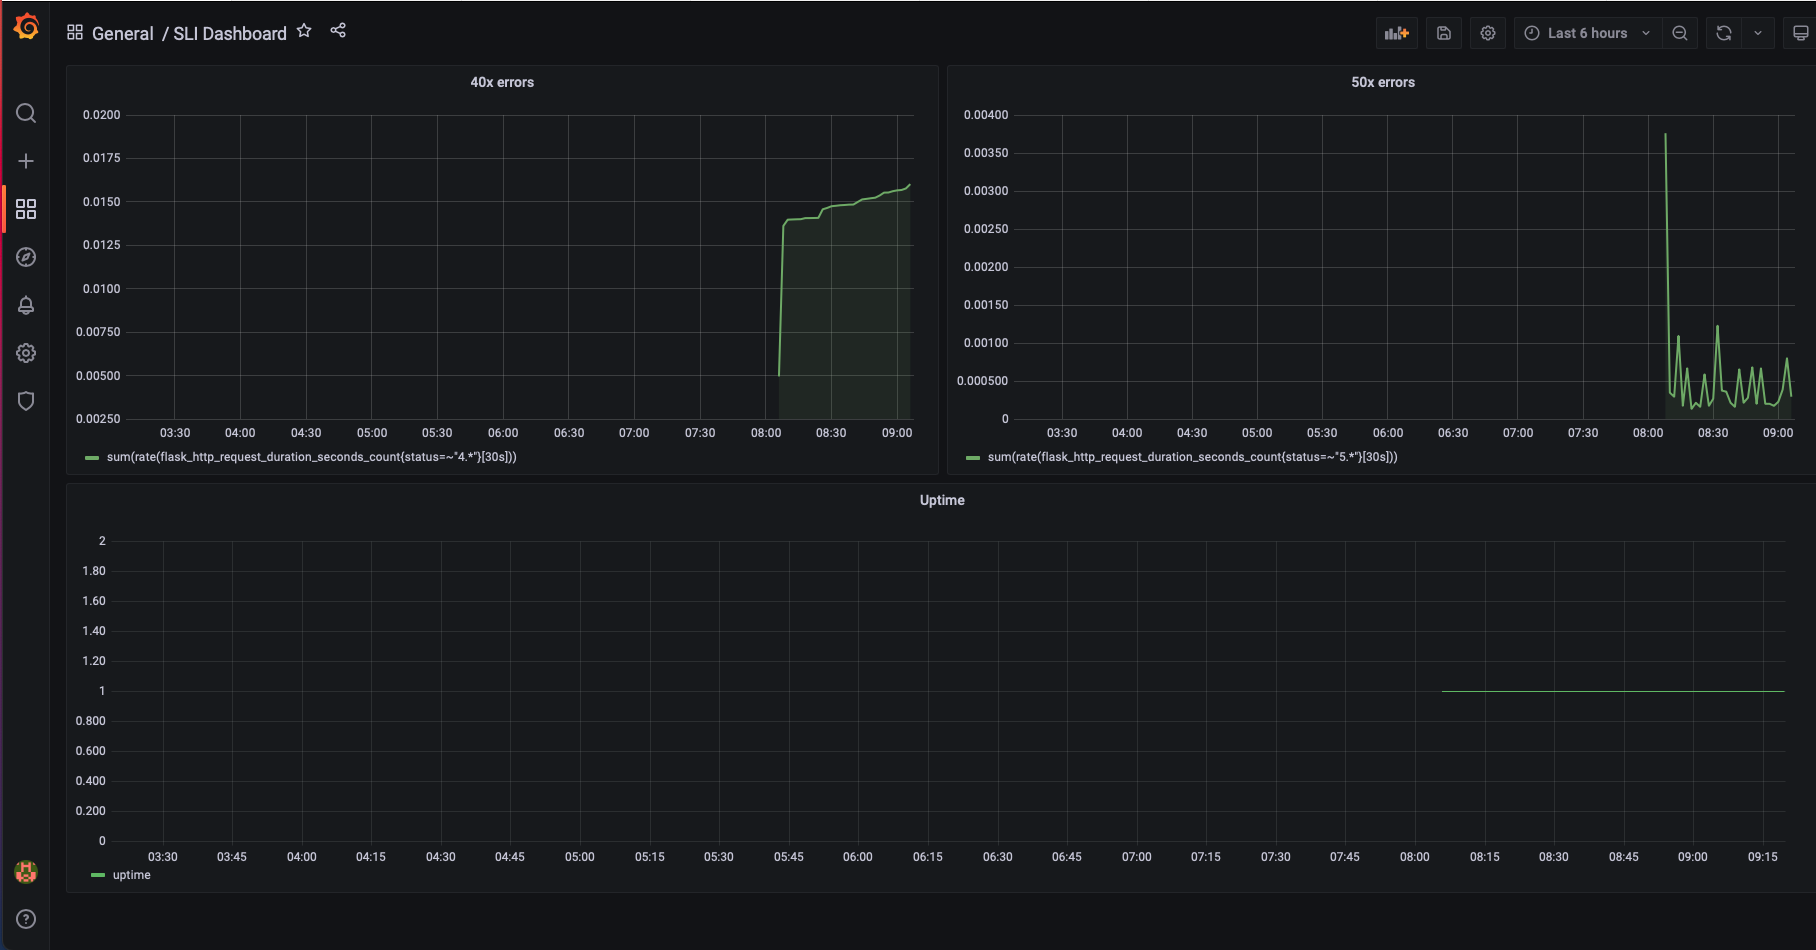
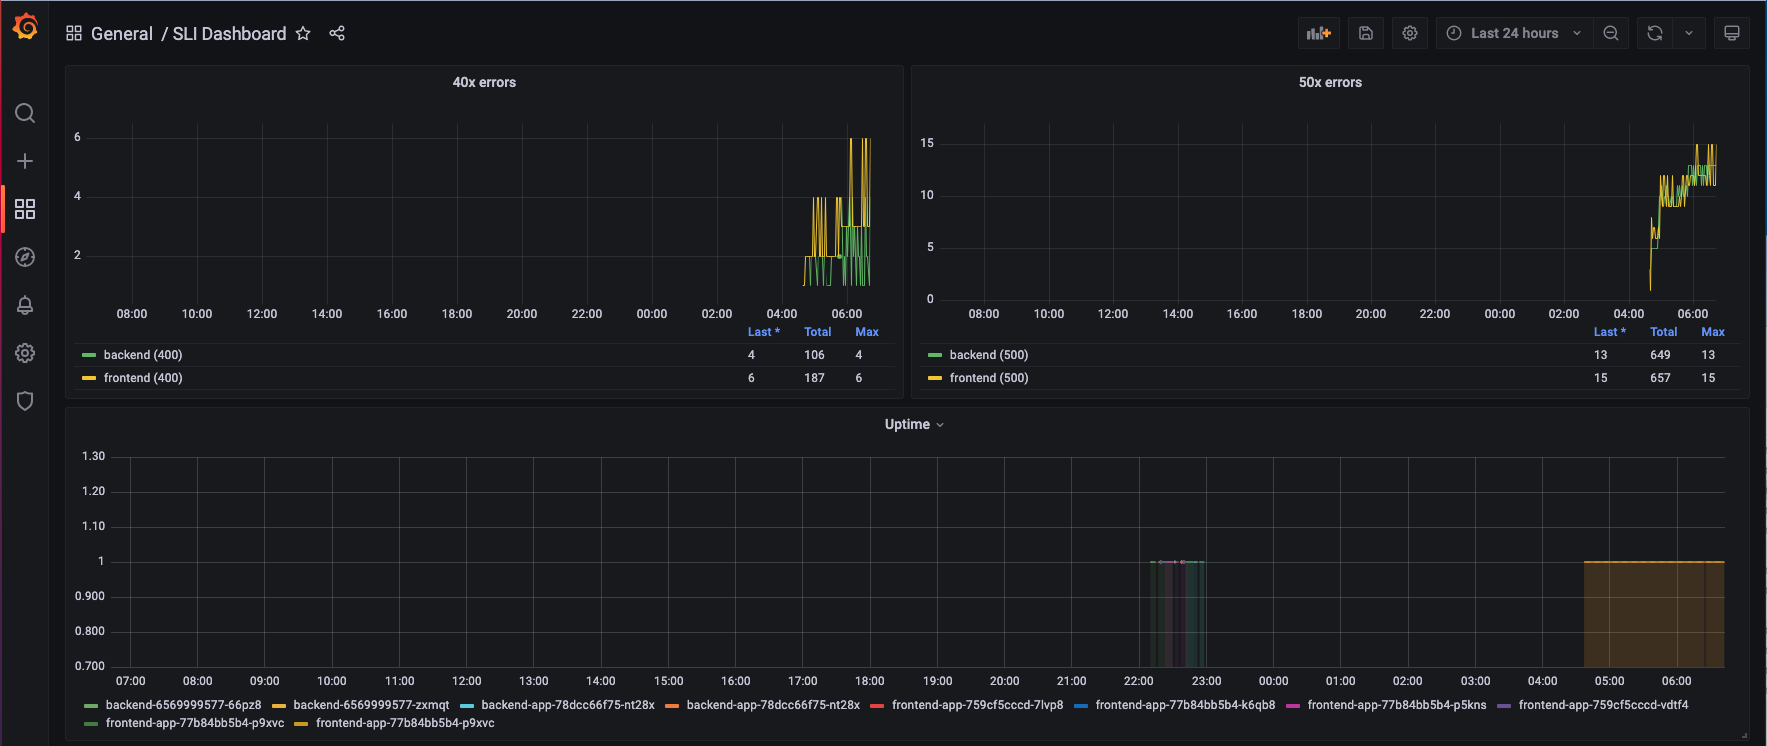
update README

diff --git a/Project_Starter_Files-Building_a_Metrics_Dashboard/README.md b/Project_Starter_Files-Building_a_Metrics_Dashboard/README.md
@@ -40,7 +40,7 @@ It is important to know why we want to measure certain metrics for our customer.
 
 Create a dashboard to measure the uptime of the frontend and backend services We will also want to measure to measure 40x and 50x errors. Create a dashboard that show these values over a 24 hour period and take a screenshot.
 
-![SLI Dashboard](answer-img/sli_dashboard_24h.png)
+![SLI Dashboard](answer-img/sli_dashboard.png)
 
 ## Tracing our Flask App
 
@@ -64,17 +64,21 @@ Below is a trouble ticket for the developers, to explain the errors that you are
 
 TROUBLE TICKET
 
-Name: Cecil K. Johnson
+Name: Error in `trial/app/app.py`
 
-Date: January 23, 2022
+Date: January 23, 2022 08:05:44
 
-Subject: Backend endpoint returns HTTP Error 405
+Subject: Cannot retrieve the number of jobs from provided URL
 
-Affected Area: Star endpoint
+Affected Area: `"./reference-app/trial/app/app.py", line 62, in trial-app`
 
 Severity: High
 
-Description: The MongoDB connection is unavailable. The tracer span is xxxx
+Description: `JSONDecodeError`: There's an issue around the way the request-response data is structured, cannot evaluate the length of the JSON output. It seems to be a problem with the jobs endpoint.
+
+![Error trace 1](answer-img/trace1.png)
+
+![Error trace 2](answer-img/trace2.png)
 
 
 ## Creating SLIs and SLOs
@@ -104,4 +108,17 @@ Now that we have our SLIs and SLOs, create a list of 2-3 KPIs to accurately meas
 
 Create a Dashboard containing graphs that capture all the metrics of your KPIs and adequately representing your SLIs and SLOs. Include a screenshot of the dashboard here, and write a text description of what graphs are represented in the dashboard.  
 
-![Final Dashboard](answer-img/final_dashboard.png)
+![Final Dashboard - Top](answer-img/final_dashboard1.png)
+![Final Dashboard - Bottom](answer-img/final_dashboard2.png)
+
+**Description of graphs**
+
+- **Uptime**: The percentage of time the backend and frontend services are fully operational
+- **Memory Usage**: The memory usage of the backend and frontend services.
+- **CPU Usage**: The CPU usage of the backend and frontend services as measured over 30 seconds intervals.
+- **40x errors**: Number of 40x errors across the backend and frontend services. This is used to mmeasure Error SLI
+- **50x errors**: Number of 50x errors across the backend and frontend services. This is used to mmeasure Error SLI
+- **Average response time [30s]**: The average response time across the backend and frontend services measured over 30 seconds intervals for successful requests.
+- **Requests per second**: Number of successful requests per second across the backend and frontend services.
+- **Errors per second**: Number of failed (non HTTP 200) responses per second across the backend and frontend services categorized by error code.
+- **Total requests per minute**: The total number of requests measured over one minute intervals in the backend and frontend pods.
